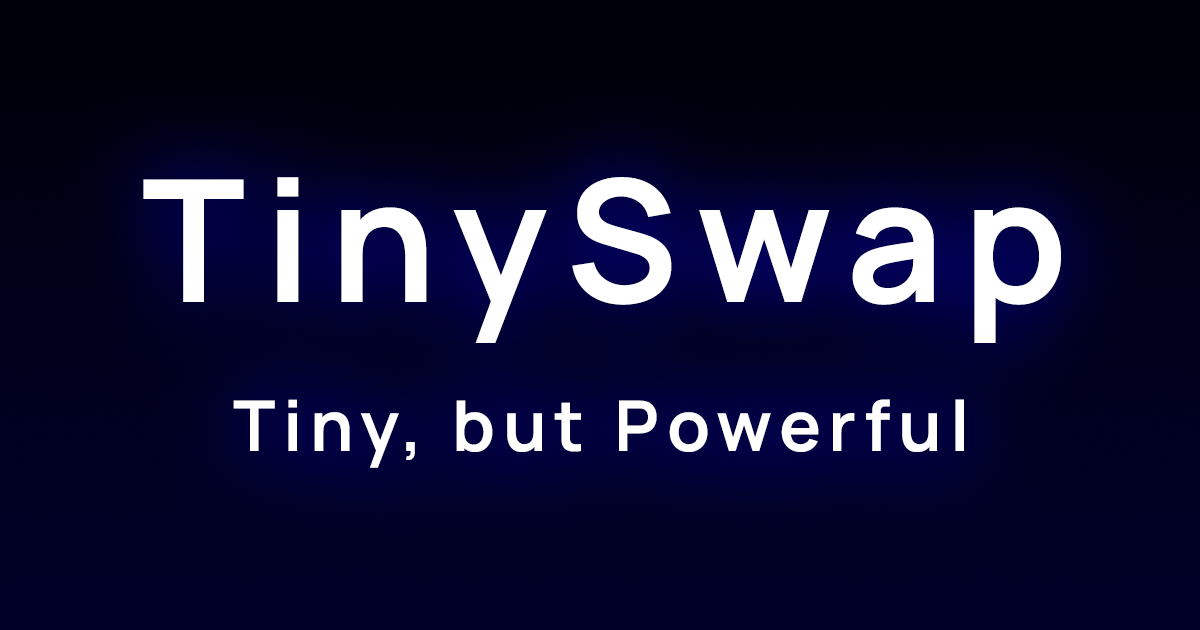
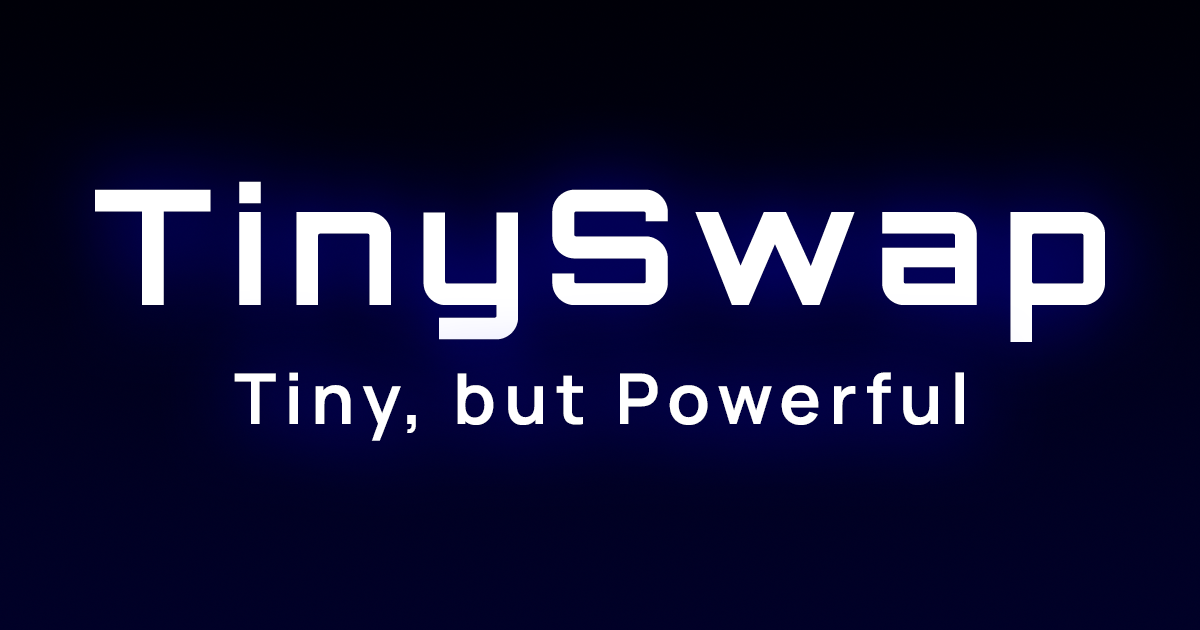
feat: New header font

Changed region(s): [[0.0617, 0.2714, 0.9558, 0.754]]

diff --git a/app/layout.tsx b/app/layout.tsx
@@ -1,9 +1,18 @@
 import type { Metadata, Viewport } from "next"
-import { Manrope } from "next/font/google"
+import { Manrope, Orbitron } from "next/font/google"
 import "./globals.css"
 import Script from "next/script"
 
-const manrope = Manrope({ subsets: ['latin'] })
+const manrope = Manrope({ 
+  subsets: ['latin'],
+  variable: '--font-manrope',
+})
+
+const orbitron = Orbitron({ 
+  weight: '700',
+  subsets: ['latin'],
+  variable: '--font-orbitron',
+})
 
 export const metadata: Metadata = {
   title: "TinySwap",
@@ -27,7 +36,7 @@ export const metadata: Metadata = {
     images: "https://tinyswap.app/og.png",
     url: "https://tinyswap.app",
   },
-  icons: [{ rel: "icon", url: "/favicon.ico" }]
+  icons: [{ rel: "icon", url: "/favicon.ico" }],
 }
 
 export const viewport: Viewport = {
@@ -42,7 +51,7 @@ export default function RootLayout({
 }>) {
   return (
     <html lang="en">
-      <body className={manrope.className}>
+      <body className={`${manrope.variable} ${orbitron.variable}`}>
         {children}
         {/* Global Site Tag (gtag.js) - Google Analytics */}
         <Script

diff --git a/app/globals.css b/app/globals.css
@@ -1,10 +1,10 @@
 :root {
   --max-width: 1100px;
   --border-radius: 12px;
+  --font-manrope: var(--font-manrope), ui-sans-serif, system-ui, -apple-system, BlinkMacSystemFont, "Segoe UI", Roboto, "Helvetica Neue", Arial, "Noto Sans", sans-serif, "Apple Color Emoji", "Segoe UI Emoji", "Segoe UI Symbol", "Noto Color Emoji";
   --font-mono: ui-monospace, Menlo, Monaco, 'Cascadia Mono', 'Segoe UI Mono',
     'Roboto Mono', 'Oxygen Mono', 'Ubuntu Monospace', 'Source Code Pro',
     'Fira Mono', 'Droid Sans Mono', 'Courier New', monospace;
-
   --foreground-rgb: 250, 250, 250;
   --background-start-rgb: 0, 0, 10;
   --background-end-rgb: 0, 0, 37;
@@ -44,12 +44,21 @@ a {
   color: #25a4d7;
   text-decoration: none;
   cursor: pointer;
+}
 
-  &:hover {
-    color: #277cbd;
-  }
+a:hover {
+  color: #277cbd;
 }
 
 html {
   color-scheme: dark;
+}
+
+/* Add these new styles */
+h1, h2, h3, h4, h5, h6 {
+  font-family: var(--font-orbitron);
+}
+
+code, pre {
+  font-family: var(--font-mono);
 }

diff --git a/app/components/Widget.tsx b/app/components/Widget.tsx
@@ -1,6 +1,6 @@
 'use client';
 
-import { LiFiWidget, WidgetConfig, WidgetSkeleton, ChainId } from '@lifi/widget'
+import { LiFiWidget, WidgetConfig, WidgetSkeleton } from '@lifi/widget'
 import styles from '@/app/page.module.css'
 import { ClientOnly } from '@/app/components/ClientOnly'
 

diff --git a/app/page.module.css b/app/page.module.css
@@ -21,6 +21,7 @@
   font-weight: 700;
   text-align: center;
   margin-bottom: 0.5rem;
+  font-family: var(--font-orbitron);
 }
 
 .description {
@@ -28,6 +29,7 @@
   font-weight: 200;
   text-align: center;
   margin-bottom: 2.5rem;
+  font-family: var(--font-manrope);
 }
 
 .githubLink {
